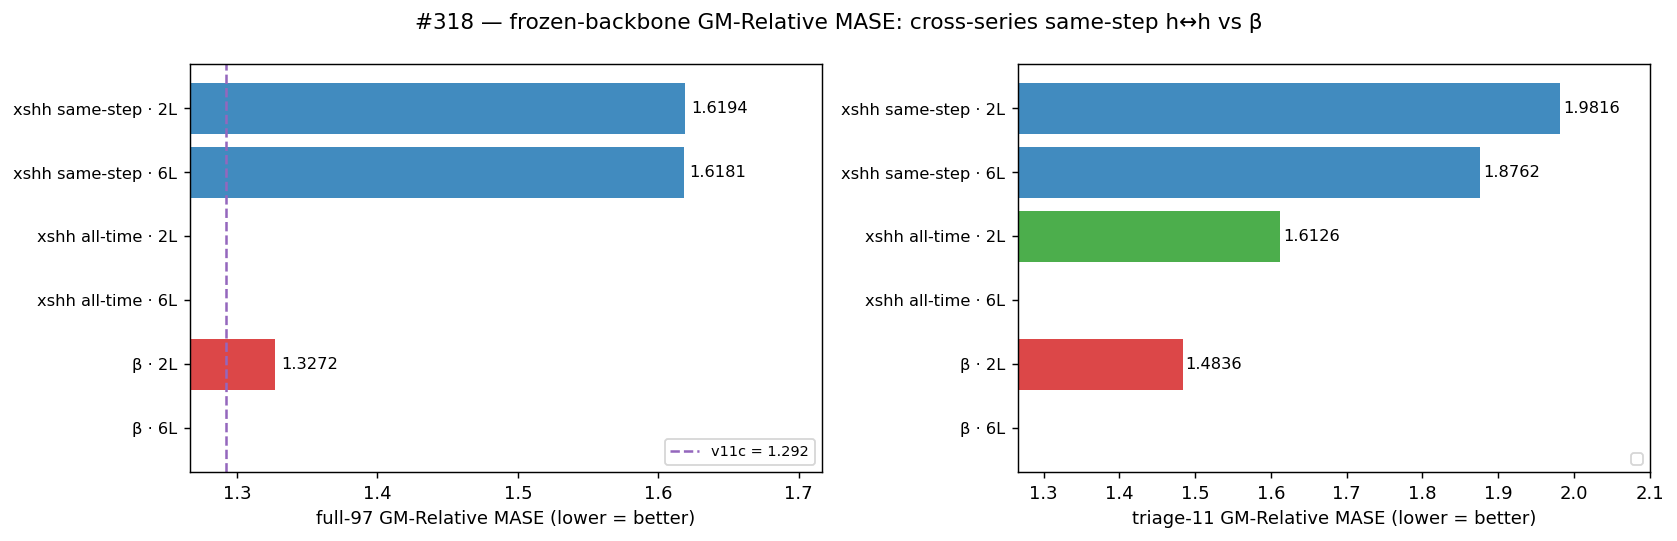
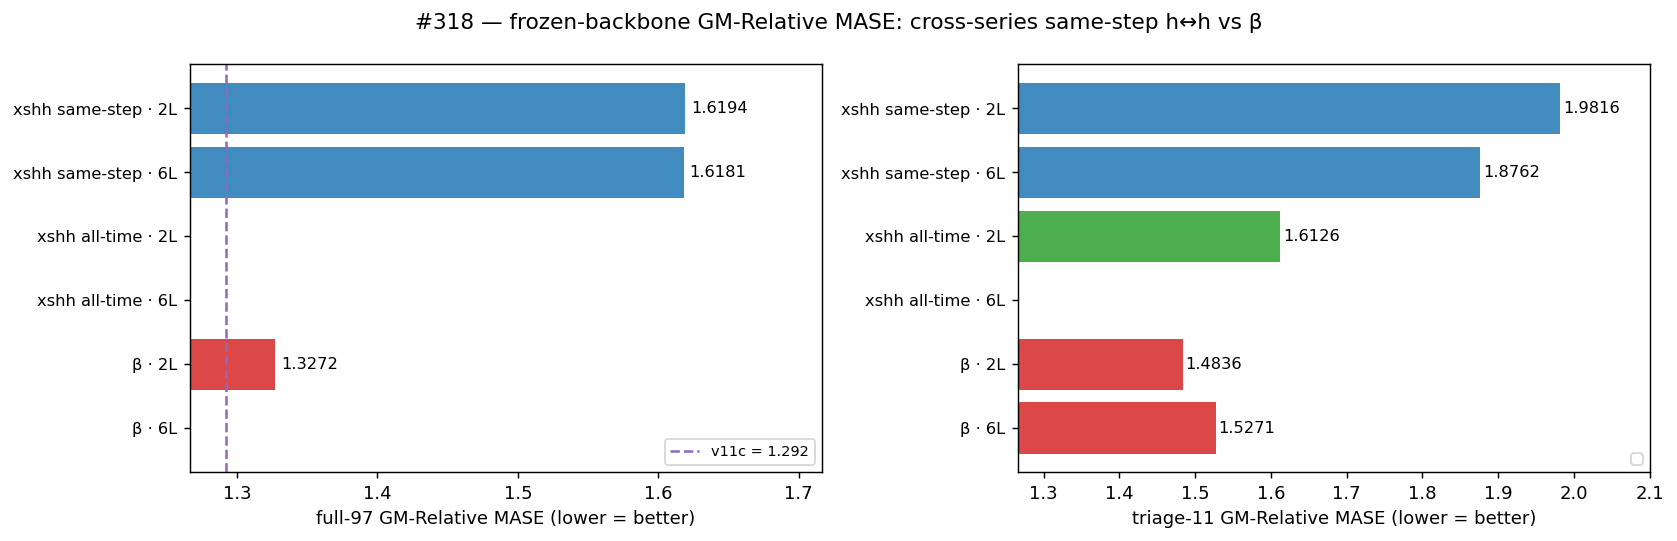
results(#318): record β 6L triage = 1.5271 (bigger head no help for β either)
β triage: 2L 1.4836, 6L 1.5271 — consistent with 'bigger heads don't help'
across arms. β 6L full-97 + all-time 2L full still running.

Changed region(s): [[0.5891, 0.7394, 0.7752, 0.8577]]

diff --git a/experiments/2026-05-23_xseries_hh/RESULTS.md b/experiments/2026-05-23_xseries_hh/RESULTS.md
@@ -131,7 +131,7 @@ _(landing)_
 | Backbone | head | full-97 GM | triage-11 GM |
 |----------|:----:|-----------:|-------------:|
 | **β** (#309) | 2L | 1.3272 | 1.4836 |
-| **β** (#309) | 6L | _(landing)_ | _(landing)_ |
+| **β** (#309) | 6L | _(landing)_ | 1.5271 |
 | **xshh same-step** | 2L | **1.6194** | 1.9816 |
 | **xshh same-step** | 6L | 1.6181 | 1.8762 |
 | **xshh all-time** | 2L | _(landing)_ | 1.6126 |
